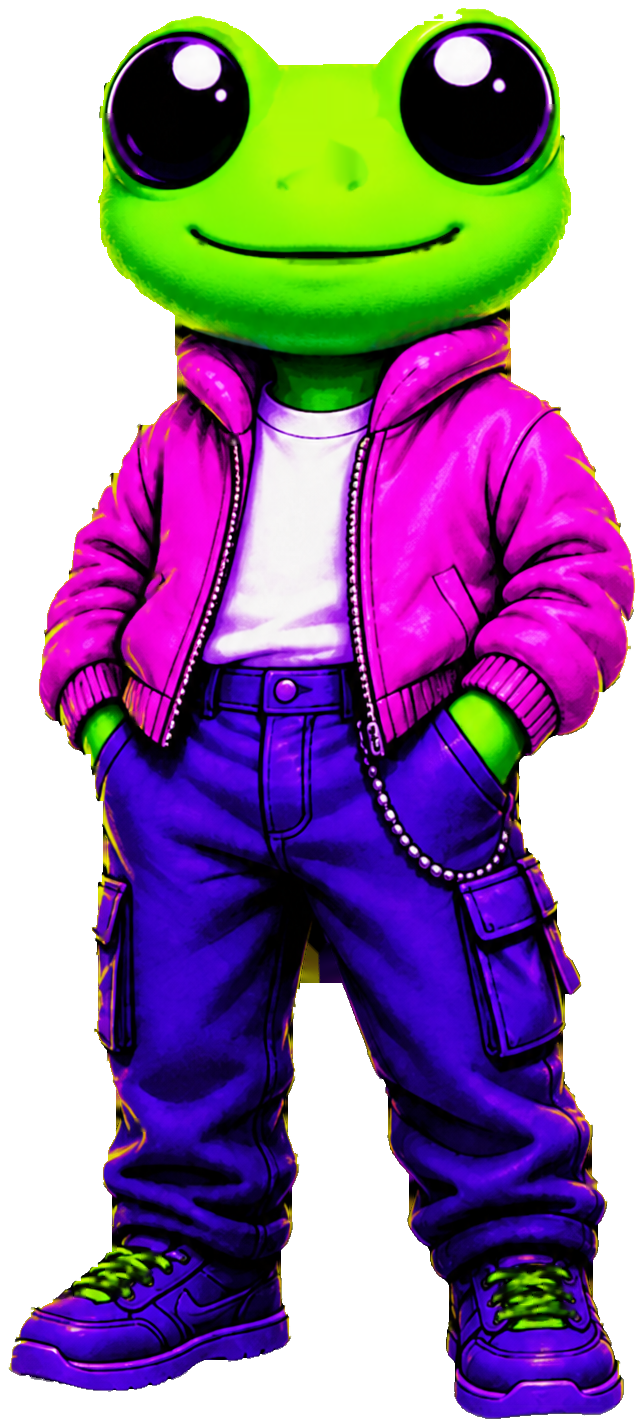
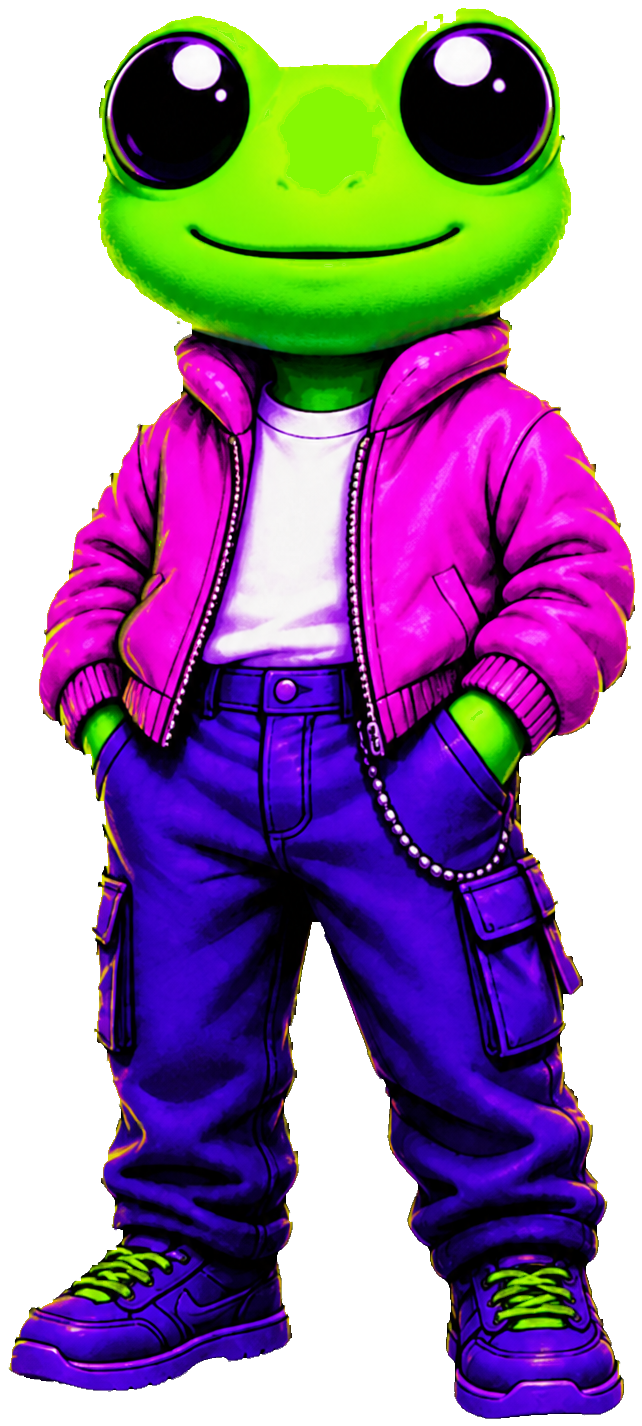
fix: solid hero face alpha and transparent film stage
Repair hero-frog.png interior alpha (face core holes=0). Keep stage
transparent so candy hero renders. Act3 type overlay; mobile nav width
and sticker placement. Triple-layer transitions without black pages.

diff --git a/src/app/globals.css b/src/app/globals.css
@@ -154,7 +154,8 @@ body {
 
 @media (max-width: 640px) {
   .candy-nav {
-    width: calc(100% - 24px);
+    width: 100%;
+    max-width: calc(100vw - 24px);
     height: 50px;
     padding: 0 0.65rem;
     grid-template-columns: 1.2fr repeat(3, 0.7fr);
@@ -208,8 +209,14 @@ body {
   inset: 0;
   z-index: 25;
   overflow: clip;
-  /* Never fall back to black void */
-  background: #c45cff;
+  /* Transparent — hero shows through until plates cover it */
+  background: transparent;
+  pointer-events: none;
+}
+
+.candy-film__stage .candy-plate,
+.candy-film__stage .candy-type-overlay {
+  pointer-events: auto;
 }
 
 /* ═══ HERO ═══ */

diff --git a/src/lib/story.ts b/src/lib/story.ts
@@ -57,6 +57,7 @@ export const STORY_ACTS: StoryAct[] = [
     pillBg: "#7DFFB2",
     pillFg: "#2A1040",
     pillLabel: "對視",
+    enterType: "只有牠",
     ghost: "soft",
   },
   {
